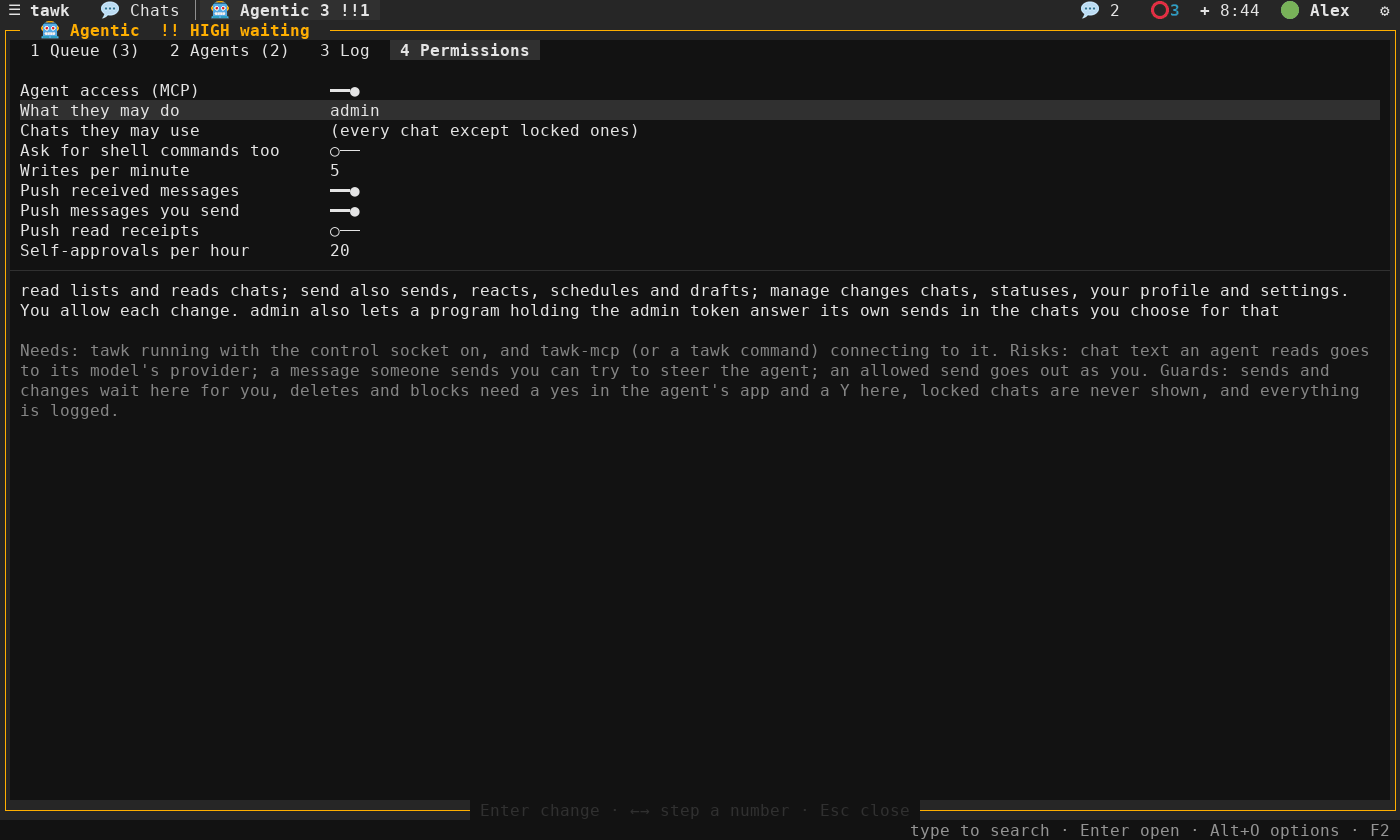
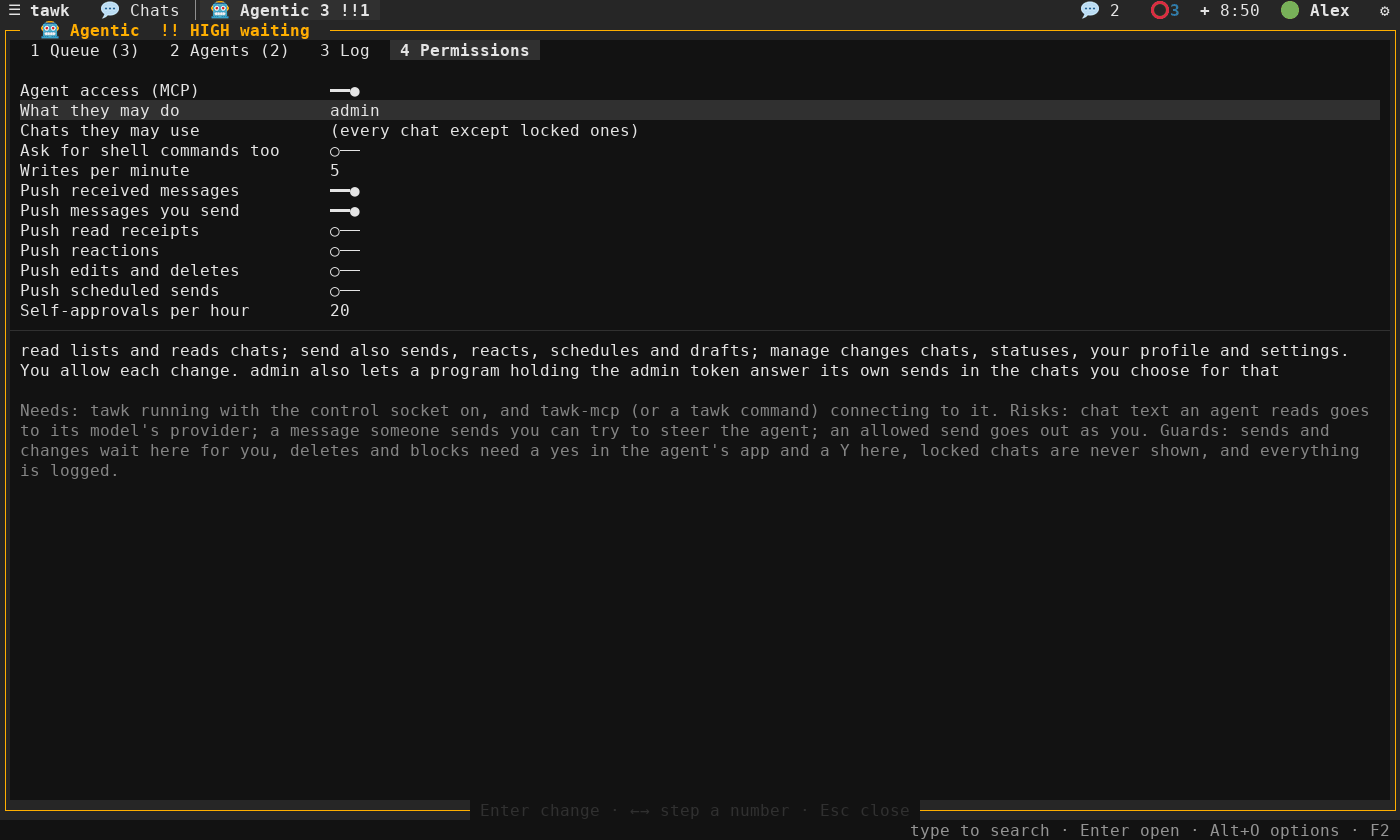
Document the reaction, edit, delete and scheduled-send events

Changed region(s): [[0.0, 0.2786, 0.9829, 0.5881]]

diff --git a/HOW_IT_WORKS.md b/HOW_IT_WORKS.md
@@ -816,7 +816,7 @@ flowchart TD
     PR -- no --> SKIP
 ```
 
-A read receipt for one of your messages takes the same road. `MessagingManager` puts it in the live ring as a `LIVE_KIND_READ` entry with who read it and when, and `automation_policy_pushes_read` lets it through only to programs acting for a model, and only with Push read receipts on.
+The other kinds take the same road. `MessagingManager` puts each in the live ring with its `LiveKind`: a read receipt for one of your messages, a reaction to one, an edit or delete by someone else, and (told by the terminal client when it sends a due message) a scheduled send. `automation_policy_pushes_event` lets each through only to programs acting for a model, and only with that kind's switch on; `control_ops_live.c` then writes one event per kind.
 
 With access admin a client can give that answer itself. `AutomationManager` keeps an admin token while the access setting says admin: it writes a fresh one through `IAdminTokenStore` when the control client's tick finds access at admin with none issued, and removes it when access is anything else and when tawk quits. The `approve` operation finds the caller's own waiting request, and the manager decides: `automation_policy_self_approval` checks the access, the kind of operation and that the chat is one agents may use and one you switched on in the self-approval chats (kept in `self_approval_chats`, with `*` for all, and empty for none), the token is compared without stopping at the first difference, and the `hourly_quota` engine counts it against `self_approvals_per_hour`. When the answer is yes the request is withdrawn from the queue and carried out as if you had allowed it, logged as approved by the agent, and the manager hands the screen a line to show. When it is no the request stays in the queue for you.
 

diff --git a/MANUAL.md b/MANUAL.md
@@ -985,10 +985,13 @@ Settings has its own section, **Agent events**, for what agents are told as it h
 | Push received messages | on | Each message other people send, as it arrives |
 | Push messages you send | on | Each message you send, from tawk or your phone |
 | Push read receipts | off | That someone read a message you sent, with who and when |
+| Push reactions | off | That someone reacted to a message you sent, or took the reaction back |
+| Push edits and deletes | off | That someone changed or deleted a message they sent, with the new words for an edit |
+| Push scheduled sends | off | That a message you scheduled went out |
 
-![The Agent events section with its three switches](docs/images/settings-agent-events.png)
+![The Agent events section with a switch for each kind of event](docs/images/settings-agent-events.png)
 
-With a switch off the agent is simply not told; it still sees messages when it reads a chat. Your own `tawk tail` always shows messages and never read receipts. tawk-mcp has matching options (`TAWKMCP_CHANNEL_OWN`, `TAWKMCP_CHANNEL_READ`) for what it passes on to the agent, so a kind reaches the agent only when both sides have it on.
+With a switch off the agent is simply not told; it still sees messages when it reads a chat. Your own `tawk tail` always shows messages and none of the other kinds. tawk-mcp has a matching option for each (`TAWKMCP_CHANNEL_OWN`, `_READ`, `_REACTIONS`, `_EDITS`, `_SCHEDULED`) for what it passes on to the agent, so a kind reaches the agent only when both sides have it on.
 
 ### The Agentic tab
 

diff --git a/CONTROL.md b/CONTROL.md
@@ -274,6 +274,9 @@ After `subscribe`, tawk sends:
 
 - `{"evt":"message","chat":{"jid","name"},"message":message}` for every new message, sent or received, in a subscribed chat. For a client whose origin is `mcp`, `push_received` and `push_sent` in `[automation]` decide whether received and sent messages are sent at all; origin `cli` always gets both.
 - `{"evt":"read","chat":{"jid","name"},"message_id":"…","reader":{"jid","name"},"at":ts}` when someone reads a message you sent in a subscribed chat. Only for origin `mcp`, and only with `push_read` on.
+- `{"evt":"reaction","chat":{…},"message_id":"…","who":{"jid","name"},"emoji":"👍","at":ts}` when someone reacts to a message you sent; `emoji` is `""` when the reaction is taken back. Origin `mcp` with `push_reactions` on.
+- `{"evt":"edit","chat":{…},"message_id":"…","who":{…},"message":message,"at":ts}` when someone changes a message they sent, with the message as it now reads, and `{"evt":"delete","chat":{…},"message_id":"…","who":{…},"at":ts}` when they delete one for everyone. Origin `mcp` with `push_edits` on.
+- `{"evt":"scheduled_sent","chat":{…},"message_id":"<the scheduled message's id>","at":ts}` when a message you scheduled goes out. Origin `mcp` with `push_scheduled` on.
 - `{"evt":"chat","chat":chat}` when a subscribed chat's unread count changes.
 - `{"evt":"bye"}` just before tawk quits.
 

diff --git a/CONFIGURATION.md b/CONFIGURATION.md
@@ -165,6 +165,9 @@ What other programs reaching tawk through its control socket may do: tawk-mcp an
 | `push_received` | `on` | Programs acting for a model that subscribed are told about each message other people send, as it arrives. Off, they see messages only when they read a chat |
 | `push_sent` | `on` | The same for the messages you send. Your own shell commands (`tawk tail`) always hear both |
 | `push_read` | `off` | Programs acting for a model that subscribed are told when someone reads a message you sent |
+| `push_reactions` | `off` | The same when someone reacts to a message you sent, or takes a reaction back |
+| `push_edits` | `off` | The same when someone changes or deletes a message they sent |
+| `push_scheduled` | `off` | The same when a message you scheduled goes out |
 | `self_approval_chats` | empty | With `access = admin`: the chats a program may answer its own sends in, as JIDs separated by commas, or `*` for every chat it may use. Empty allows none. Set from Settings, Automation, where each chat has a switch |
 | `self_approvals_per_hour` | `20` | With `access = admin`: requests a program may answer itself in an hour (1 to 240); past this they wait for you |
 
